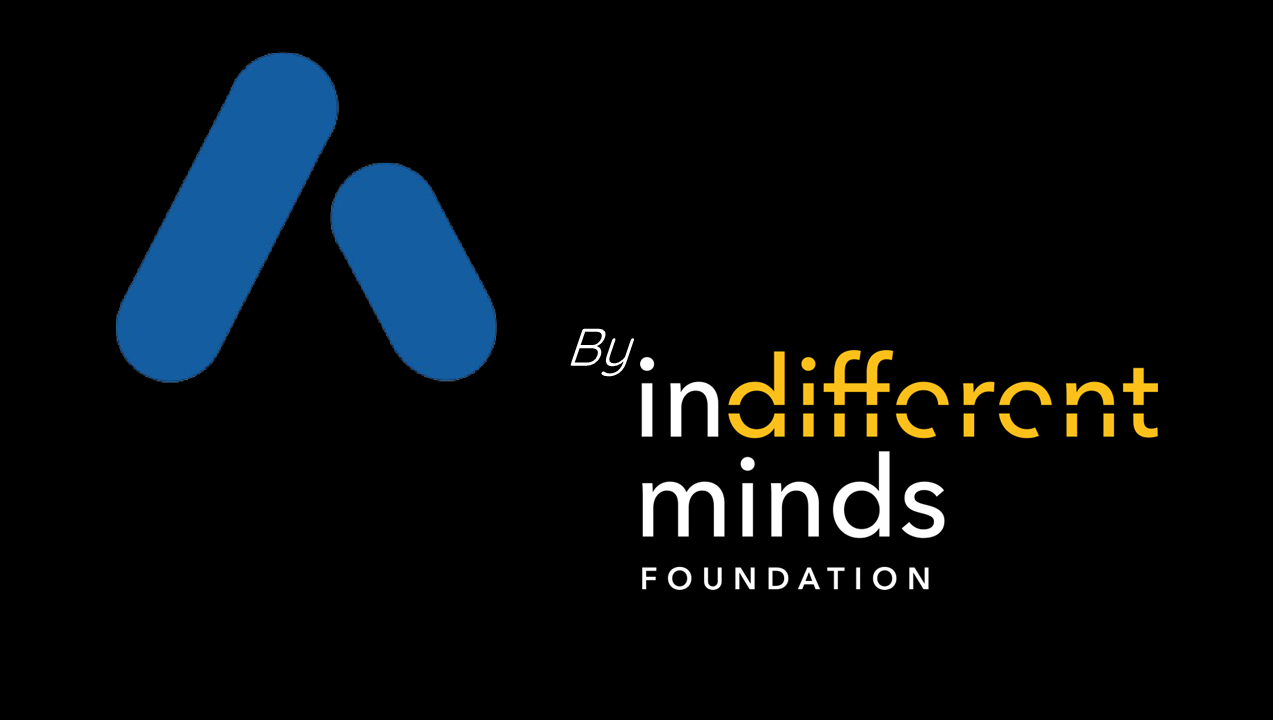
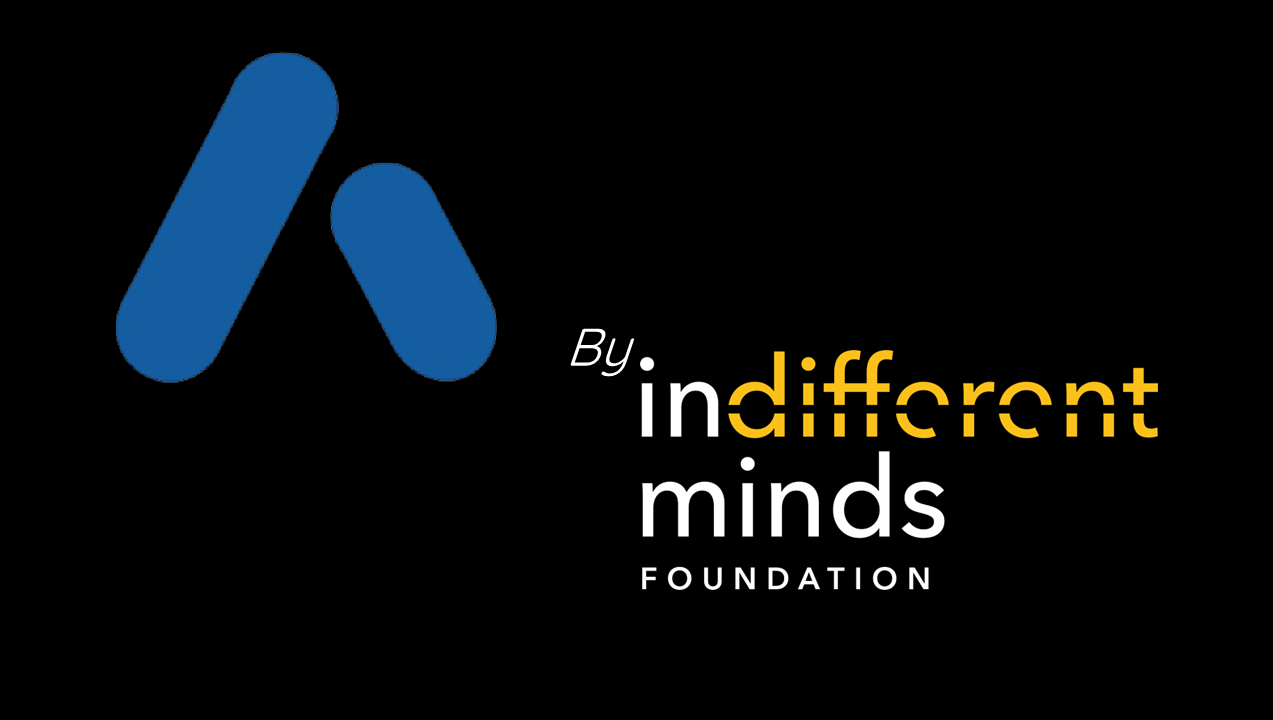
Foro's footer fix

diff --git a/foro/index.html b/foro/index.html
@@ -13,6 +13,7 @@
   <meta property="og:site_name" content="Academista" />
   <link rel="shortcut icon" href="./img/logo.png">
   <link rel="stylesheet" href="style.css">
+  <link rel="stylesheet" href="/style.css">
   <title>Inicio | Academista</title>
 
   <style>
@@ -77,7 +78,7 @@
 
 
   <div class="divfinaldepagina">
-    <img src="./img/a-by-im.png" draggable="false" style="width: 30%; min-width: 300px;">
+    <img src="./img/a-by-im.png" draggable="false" class="a-by-im">
 
     <div class="verticaldiv">
       <h4
@@ -86,12 +87,12 @@
       </h4>
 
       <a href="#acercade">
-        <p style="margin-left: 20px; margin-bottom:-13px;">
+        <p style="margin-left: 20px; margin-bottom: 3px;">
           <font color="white">Sobre academista</font>
         </p>
       </a>
       <a href="https://www.indifferentminds.org" target="_blank">
-        <p style="margin-left: 20px; margin-bottom:-13px;">
+        <p style="margin-left: 20px; margin-bottom: 3px;">
           <font color="white">Indifferent minds</font>
         </p>
       </a>
@@ -109,18 +110,18 @@
       </h4>
 
       <a href="foro">
-        <p style="margin-left: 20px; margin-bottom:-13px;">
+        <p style="margin-left: 20px; margin-bottom: 3px; color: white;">
           <font color="white">Foro</font>
         </p>
       </a>
       <a href="login">
-        <p style="margin-left: 20px; margin-bottom:-13px;">
-          <font color="white">Iniciar Sesion</font>
+        <p style="margin-left: 20px; margin-bottom: 3px; color: white;">
+          Iniciar Sesion
         </p>
       </a>
       <a href="#planes">
-        <p style="margin-left: 20px; margin-bottom:-13px;">
-          <font color="white">Planes</font>
+        <p style="margin-left: 20px; margin-bottom: 3px; color: white;">
+          Planes
         </p>
       </a>
 
@@ -130,17 +131,18 @@
 
     <div class="contactofinal" id="contacto">
       <p style="margin-top: 20px; font-size: 25px; margin-bottom: 10px;">Contacto</p>
-      Contactanos a traves del mail: <a href="mailto:academista@indifferentminds.org" style="text-decoration: none; color: rgb(255, 207, 207);">academista@indifferentminds.org</a>
+      Contactanos a traves del mail: <a href="mailto:academista@indifferentminds.org"
+        style="text-decoration: none; color: #A1C8FF;">academista@indifferentminds.org</a>
       <div class="social-icons">
-        <a href="https://x.com/academista_edu" target="_blank" rel="noopener noreferrer" aria-label="X (formerly Twitter)"
-          class="social-icon">
+        <a href="https://x.com/academista_edu" target="_blank" rel="noopener noreferrer"
+          aria-label="X (formerly Twitter)" class="social-icon">
           <svg viewBox="0 0 24 24" fill="currentColor" height="1em" width="1em">
             <path
               d="M18.244 2.25h3.308l-7.227 8.26 8.502 11.24H16.17l-5.214-6.817L4.99 21.75H1.68l7.73-8.835L1.254 2.25H8.08l4.713 6.231zm-1.161 17.52h1.833L7.084 4.126H5.117z" />
           </svg>
         </a>
-        <a href="https://instagram.com/academista_education" target="_blank" rel="noopener noreferrer" aria-label="Instagram"
-          class="social-icon">
+        <a href="https://instagram.com/academista_education" target="_blank" rel="noopener noreferrer"
+          aria-label="Instagram" class="social-icon">
           <svg viewBox="0 0 24 24" fill="currentColor" height="1em" width="1em">
             <path
               d="M20.947 8.305a6.53 6.53 0 00-.419-2.216 4.61 4.61 0 00-2.633-2.633 6.606 6.606 0 00-2.186-.42c-.962-.043-1.267-.055-3.709-.055s-2.755 0-3.71.055a6.606 6.606 0 00-2.185.42 4.607 4.607 0 00-2.633 2.633 6.554 6.554 0 00-.419 2.185c-.043.963-.056 1.268-.056 3.71s0 2.754.056 3.71c.015.748.156 1.486.419 2.187a4.61 4.61 0 002.634 2.632 6.584 6.584 0 002.185.45c.963.043 1.268.056 3.71.056s2.755 0 3.71-.056a6.59 6.59 0 002.186-.419 4.615 4.615 0 002.633-2.633c.263-.7.404-1.438.419-2.187.043-.962.056-1.267.056-3.71-.002-2.442-.002-2.752-.058-3.709zm-8.953 8.297c-2.554 0-4.623-2.069-4.623-4.623s2.069-4.623 4.623-4.623a4.623 4.623 0 010 9.246zm4.807-8.339a1.077 1.077 0 01-1.078-1.078 1.077 1.077 0 112.155 0c0 .596-.482 1.078-1.077 1.078z" />
@@ -160,10 +162,14 @@
               d="M13.397 20.997v-8.196h2.765l.411-3.209h-3.176V7.548c0-.926.258-1.56 1.587-1.56h1.684V3.127A22.336 22.336 0 0014.201 3c-2.444 0-4.122 1.492-4.122 4.231v2.355H7.332v3.209h2.753v8.202h3.312z" />
           </svg>
         </a>
-
-
+      </div>
+      <div style="margin-top: 10px;">
+        <p style="display: flex; justify-content: left;"><img src="./img/unequal.svg" draggable="false"
+            style="height: 20px; margin-right: 5px;">Made by Indifferent Minds Team </p>
       </div>
     </div>
+
+
   </div>
 </body>
 

diff --git a/foro/style.css b/foro/style.css
@@ -59,6 +59,7 @@
 .nombrebarra:hover {
     color: #9ecdff;
 }
+
 .option {
     display: inline-block;
     margin: 20px;
@@ -88,11 +89,11 @@
     height: auto;
     width: 150px;
     color: white;
-  }
+}
 
 .contactofinal {
     color: white;
-    margin-left: 25px;
+    margin-left: 60px;
 }
 
 body {
@@ -111,7 +112,8 @@ body {
     background-color: #000000;
     display: flex;
     align-items: left;
-  }
+    font-family: Arial, Helvetica, sans-serif;
+}
 
 .forotitle {
     margin-top: 110px;
@@ -124,18 +126,58 @@ body {
 }
 
 @media (max-width: 768px) {
-    .verticaldiv, .contactofinal {
+
+    .verticaldiv,
+    .contactofinal {
         display: none;
     }
+
     .a-by-im {
         width: 1000px;
     }
+
+    .divfinaldepagina {
+        align-items: center;
+    }
+
     .barra-derecha {
         display: none;
     }
-  
+
+    .fondobannerinicio {
+        max-height: 400px;
+    }
+
+    .imgbanner {
+        width: 100%;
+        height: auto;
+    }
+
+}
+
+.a-by-im {
+    width: 412px;
+}
+
+.social-icons {
+    margin-top: 15px;
+    display: flex;
+    justify-content: left;
+    gap: 1.5rem;
   }
   
-  .a-by-im{
-    width: 412px;
+  .social-icon {
+    color: rgb(156, 163, 175);
+    transition: all 0.3s ease-in-out;
+    transform: scale(1);
+  }
+  
+  .social-icon:hover {
+    color: white;
+    transform: scale(1.1);
+  }
+  
+  .social-icon svg {
+    width: 1.5rem;
+    height: 1.5rem;
   }
